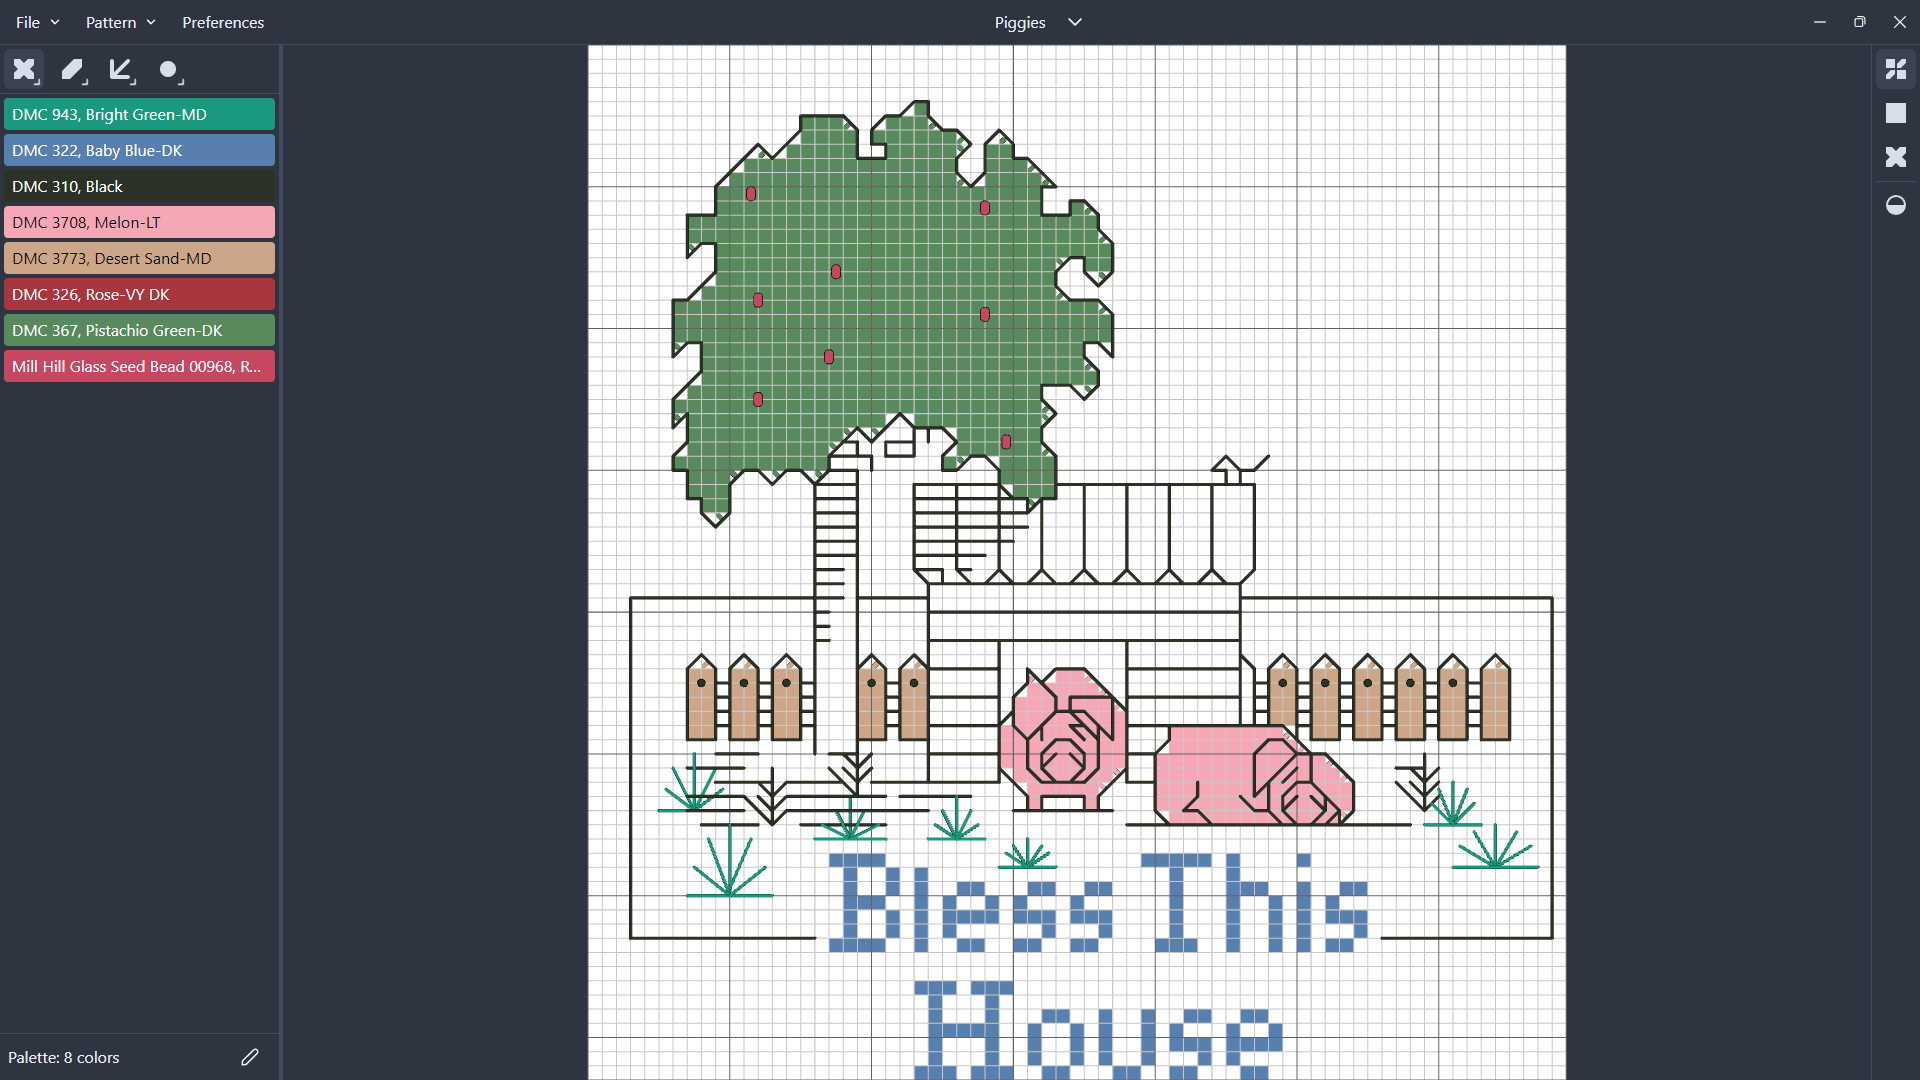
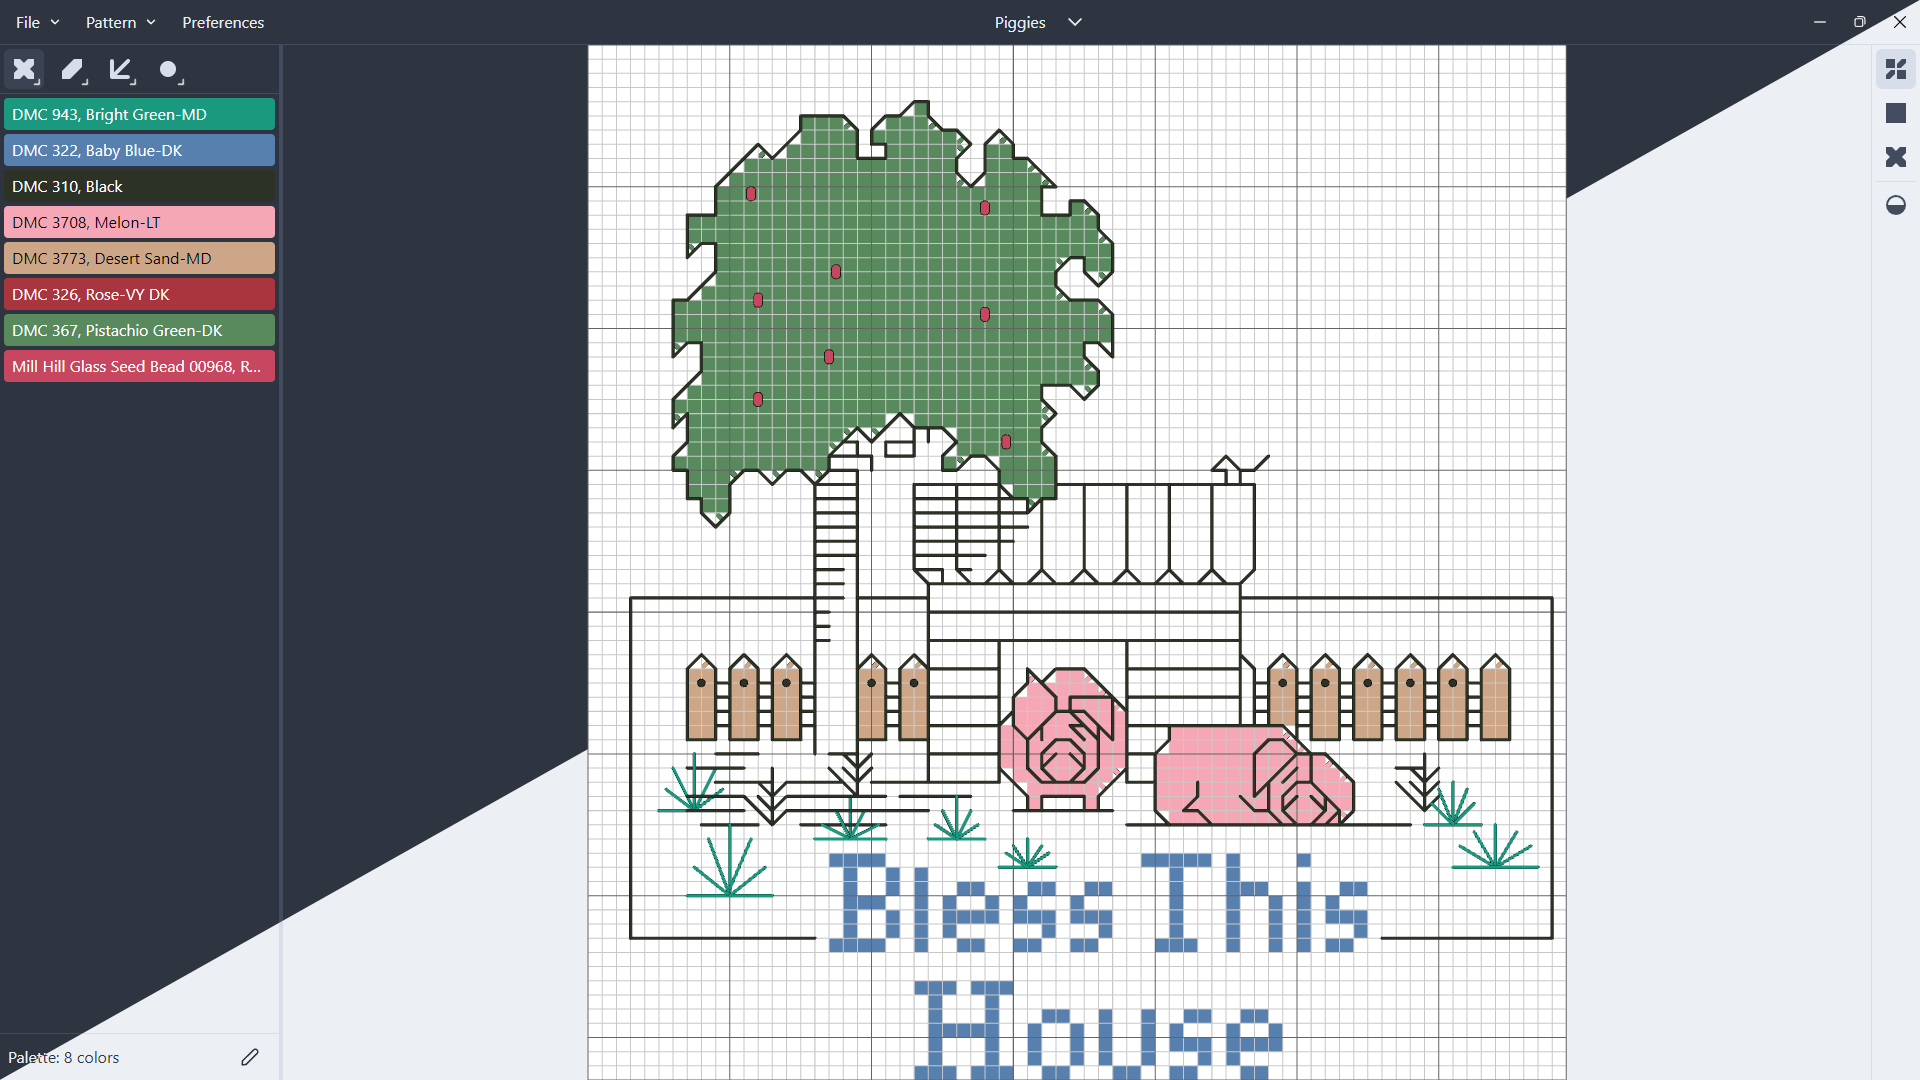
added screenshots, updated readme

Changed region(s): [[0.8125, 0.0, 1.0, 1.0], [0.0, 0.7028, 0.3125, 1.0]]

diff --git a/README.md b/README.md
@@ -20,7 +20,10 @@ You can also join the [Telegram chat](https://t.me/embroidery_space), where we w
 <details>
 <summary>Screenshots</summary>
 
-![Embroidery Studio interface with the opened sample pattern](./images/opened-pattern.png)
+![Embroidery Studio interface start screen](./images/first-screen.png)
+![Embroidery Studio interface with a sample pattern opened](./images/opened-pattern.png)
+![Embroidery Studio interface with Palette Editing enabled and Canvas Settings popup visible](./images/palette-canvas-properties.png)
+![Embroidery Studio view styles collage](./images/styles.png)
 
 </details>
 
